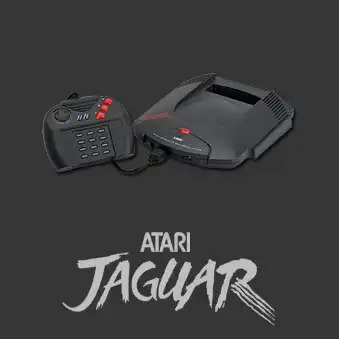
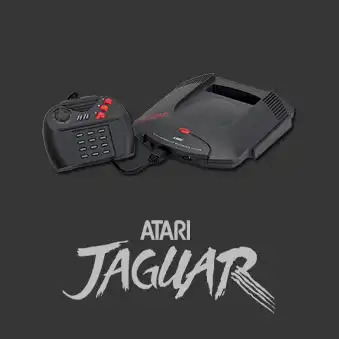
Update to v1.07 - See the changelog

Changed region(s): [[0.177, 0.649, 0.826, 0.9735]]

diff --git a/README.md b/README.md
@@ -6,7 +6,7 @@ Theme for Emulation Station compatible with
 - [RetroBat](https://www.retrobat.org/)
 - [Knulli](https://knulli.org/)
 
-**V 1.06 - (2025 06 27)** - See the changelog for details ---> [ChangeLog.md](/ChangeLog.md)
+**V 1.07 - (2025 06 29)** - See the changelog for details ---> [ChangeLog.md](/ChangeLog.md)
 
 The priority for this theme was fluidity, but also legibility on small and tiny screens.
 

diff --git a/ChangeLog.md b/ChangeLog.md
@@ -1,3 +1,7 @@
+## V 1.07 - (2025 06 29) 
+- hardware grid thumbnails readjustment
+
+
 ## V 1.06 - (2025 06 27) 
 - improve overall fluidity for the Animatics grid views and logos  
 - added background selection for detailed and gamecarousel views (None, Fanart, Hardware, Theme)  
